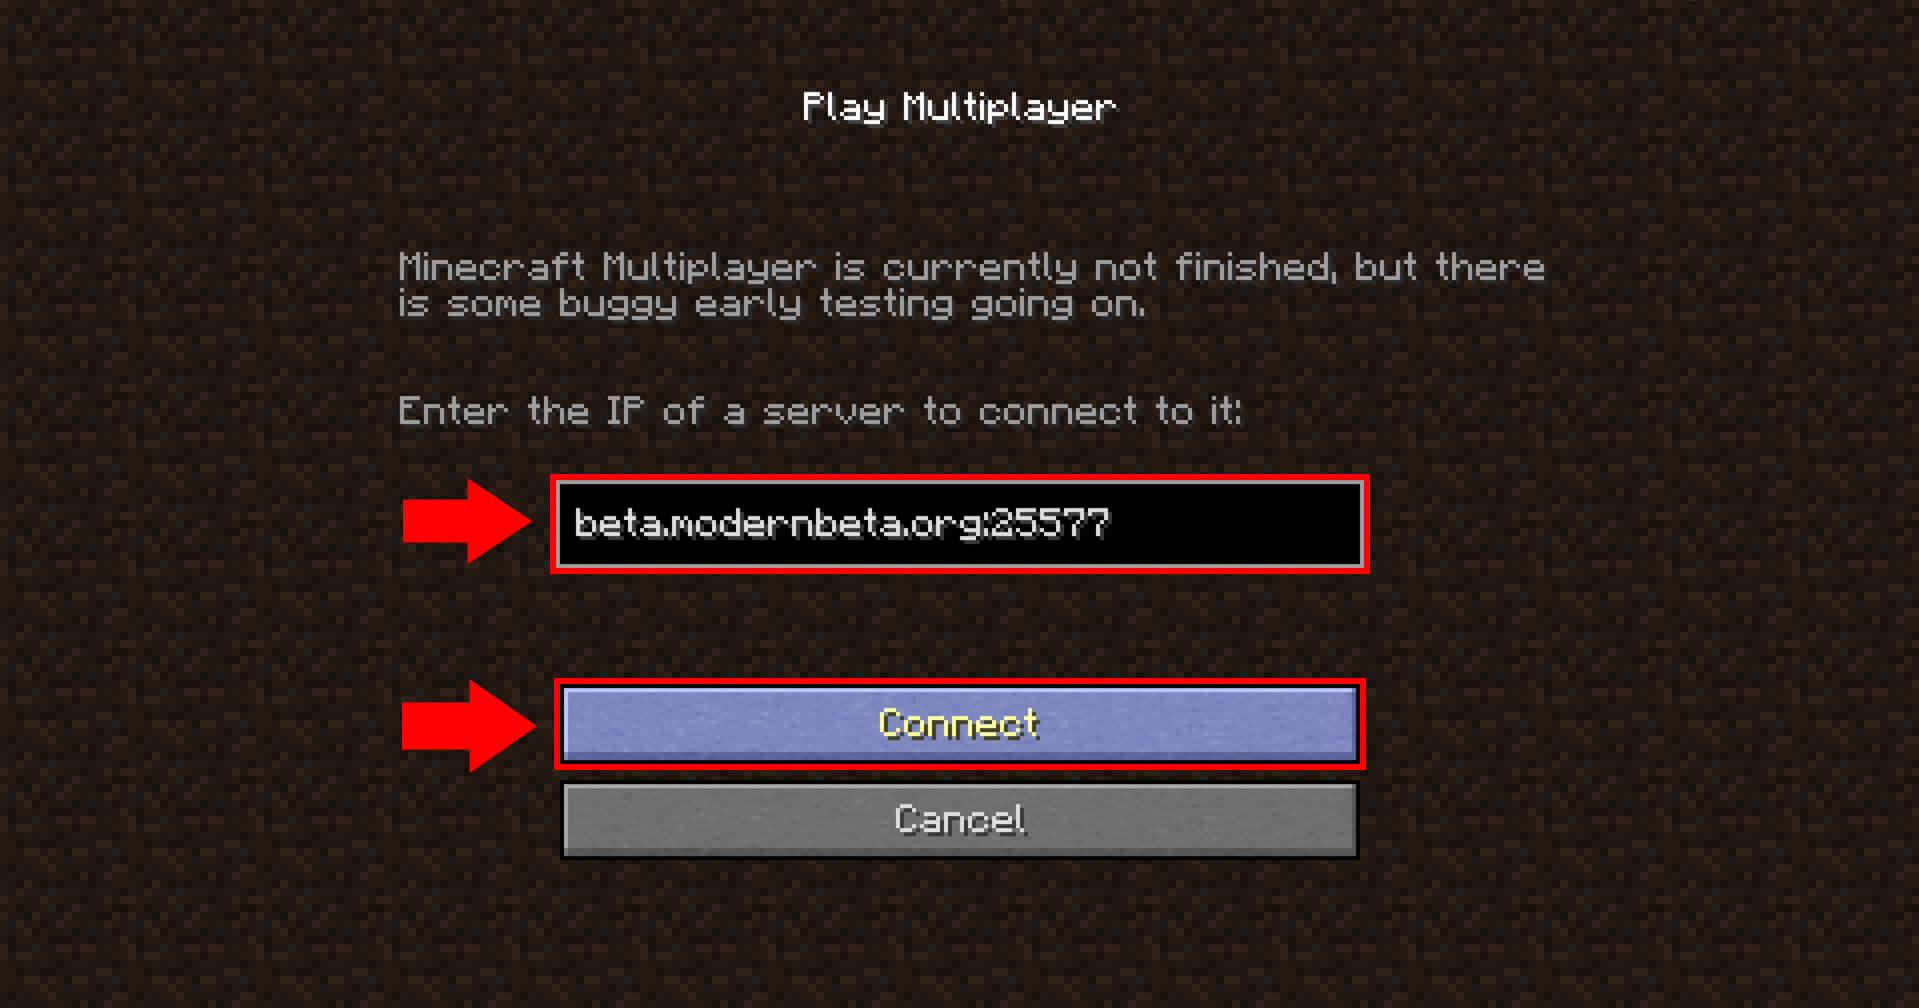
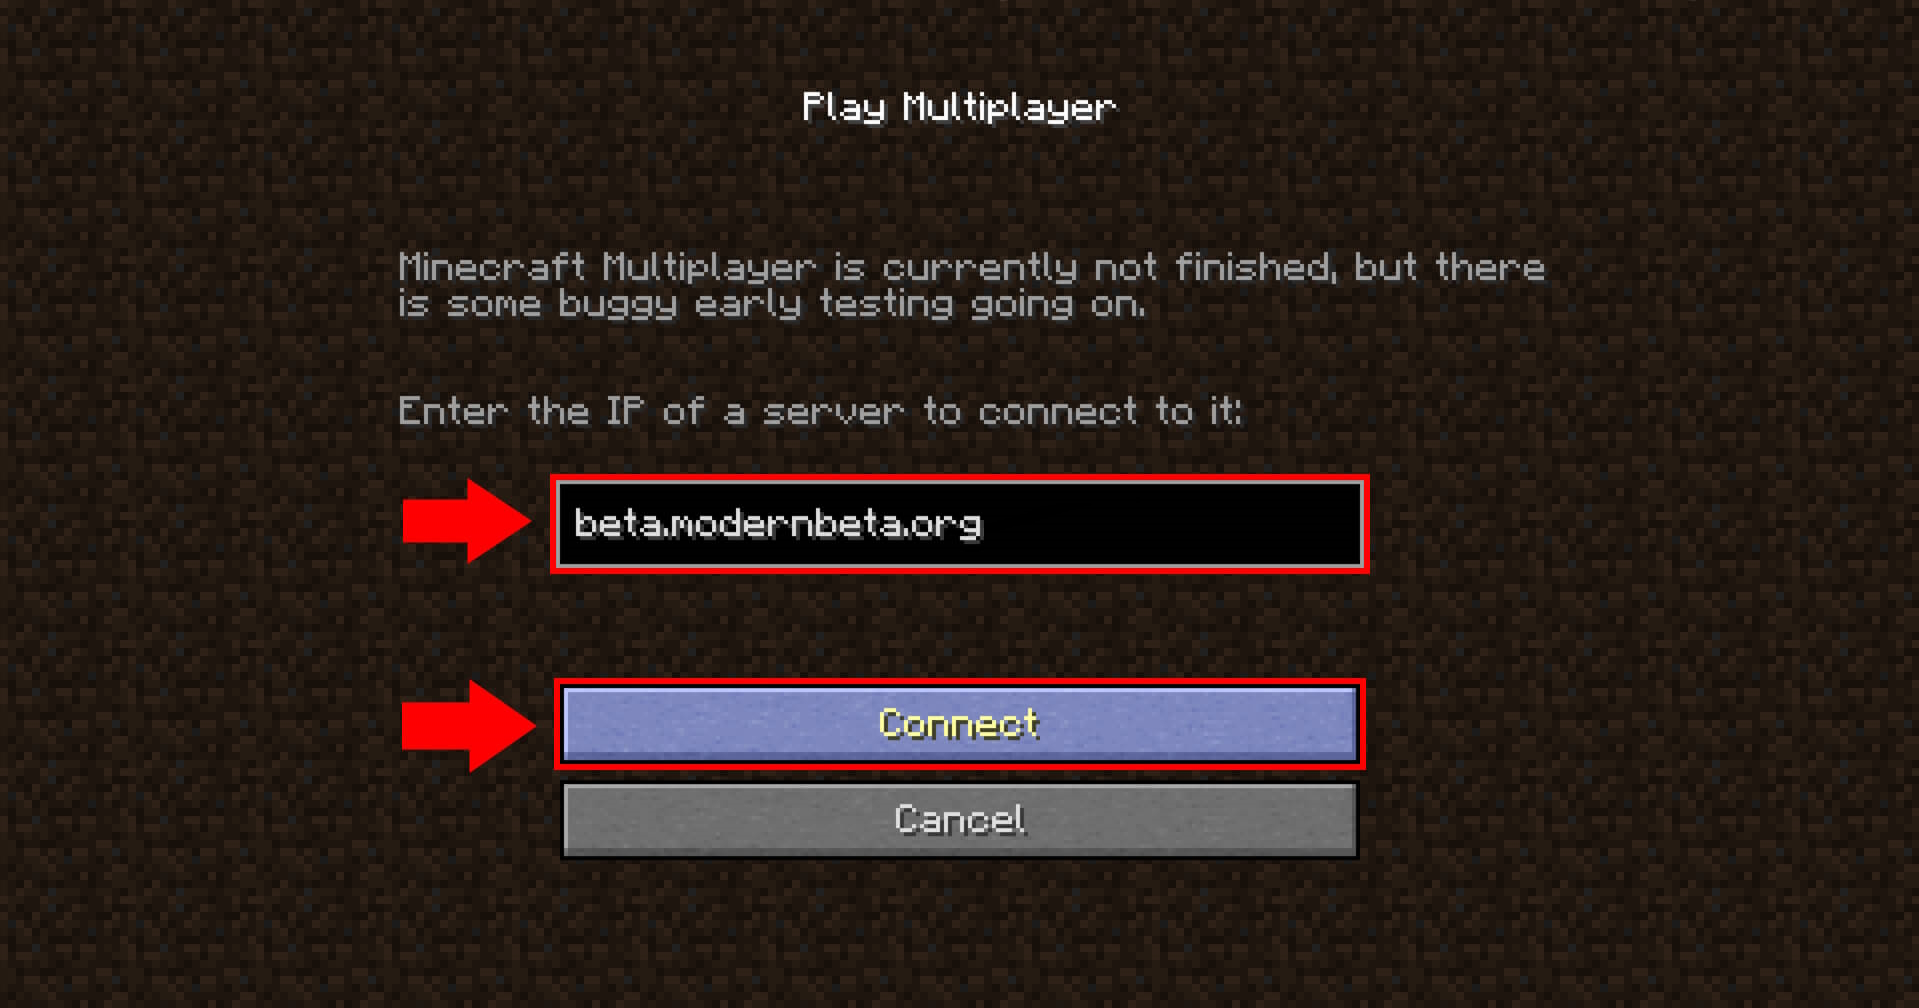
Updated beta guides

Changed region(s): [[0.3075, 0.4613, 0.7071, 0.5843], [0.3075, 0.7381, 0.7071, 0.7688]]

diff --git a/play/index.html b/play/index.html
@@ -145,15 +145,15 @@
 
 			<div id="beta-modded-tutorial" class="tutorial hide">
 				<h1>Step 1</h1>
-				<p>Press 'Multiplayer'</p>
-				<img src="../images/minecraft/betatutorial/modded/1.jpg" />
+				<p>Modify your Beta 1.7.3 instance's java arguments to have auth fix.<br /><b>Copy this:</b> <i>-Dhttp.proxyHost=proxy.modernbeta.org -Dhttp.proxyPort=8080 -Djava.util.Arrays.useLegacyMergeSort=true</i></p>
+				<img src="../images/minecraft/betatutorial/modded/0.jpg" />
 
 				<h1>Step 2</h1>
 				<p>Press 'Add Server' (if using the server list mod, otherwise skip to Step 3)</p>
 				<img src="../images/minecraft/betatutorial/modded/2.jpg" />
 
 				<h1>Step 3</h1>
-				<p>Enter the server name and address (beta.modernbeta.org:25577)</p>
+				<p>Enter the server name and address (beta.modernbeta.org)</p>
 				<img src="../images/minecraft/betatutorial/modded/3.jpg" />
 
 				<h1>Step 4</h1>
@@ -172,12 +172,7 @@
 
 				<h1 style="margin: 60px 0 70px;">OR...</h1>
 
-				<h1>Step 2</h1>
-				<p>Launch b1.7.3 BetaCraft & Press 'Multiplayer'</p>
-				<img src="../images/minecraft/betatutorial/modded/1.jpg" />
-
-				<h1>Step 3</h1>
-				<p>Enter the IP (beta.modernbeta.org:25577) & press 'Connect' - you're done, have fun!</p>
+				<p>Launch b1.7.3 via BetaCraft's launcher and join with <b>beta.modernbeta.org</b> - <i>you're done, have fun!</i></p>
 				<img src="../images/minecraft/betatutorial/betacraft/4.jpg" />
 			</div>
 
